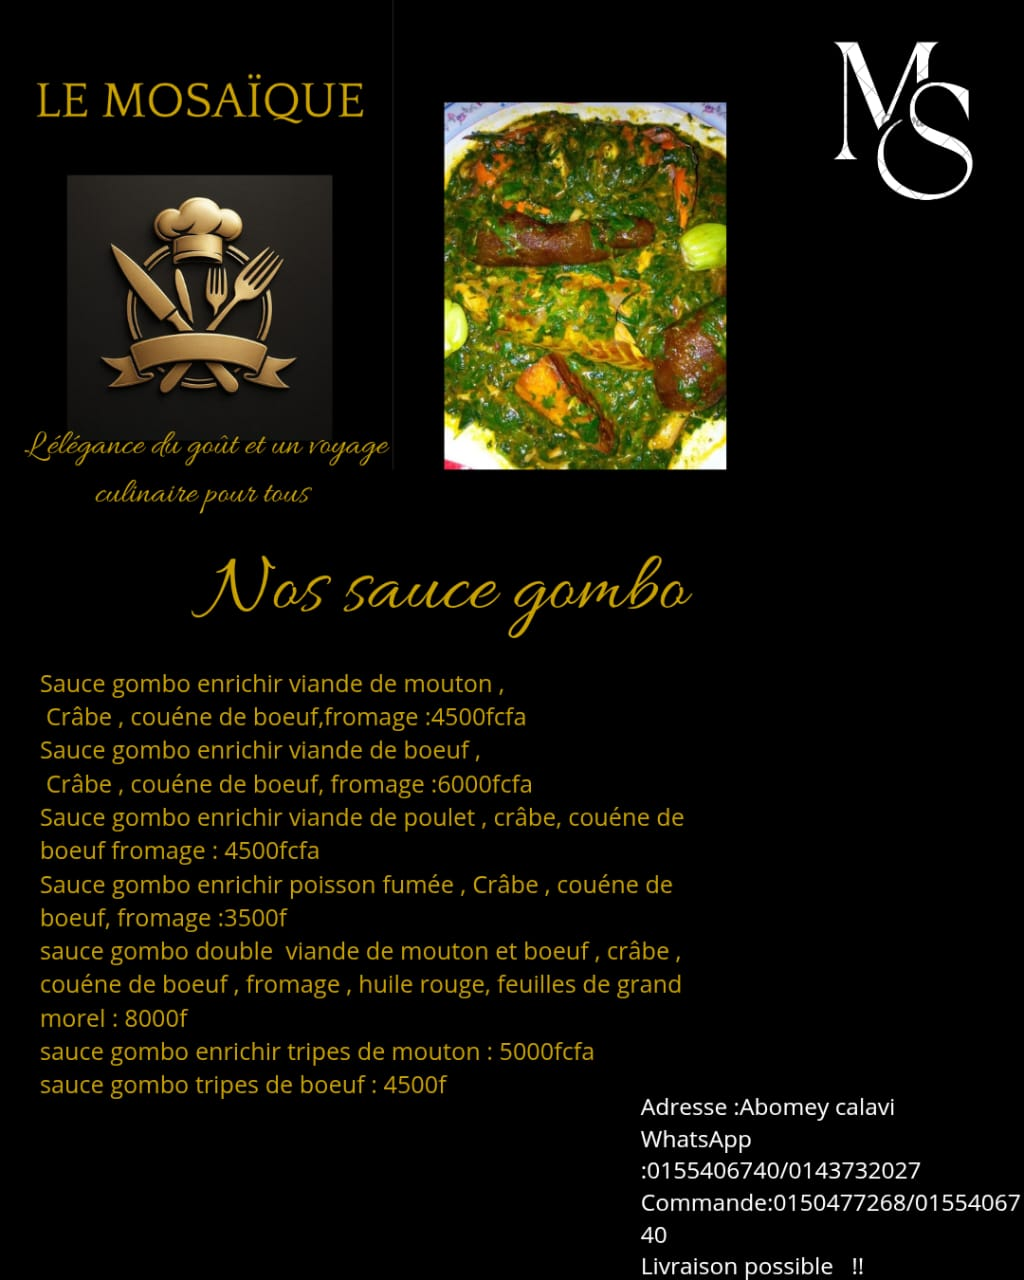
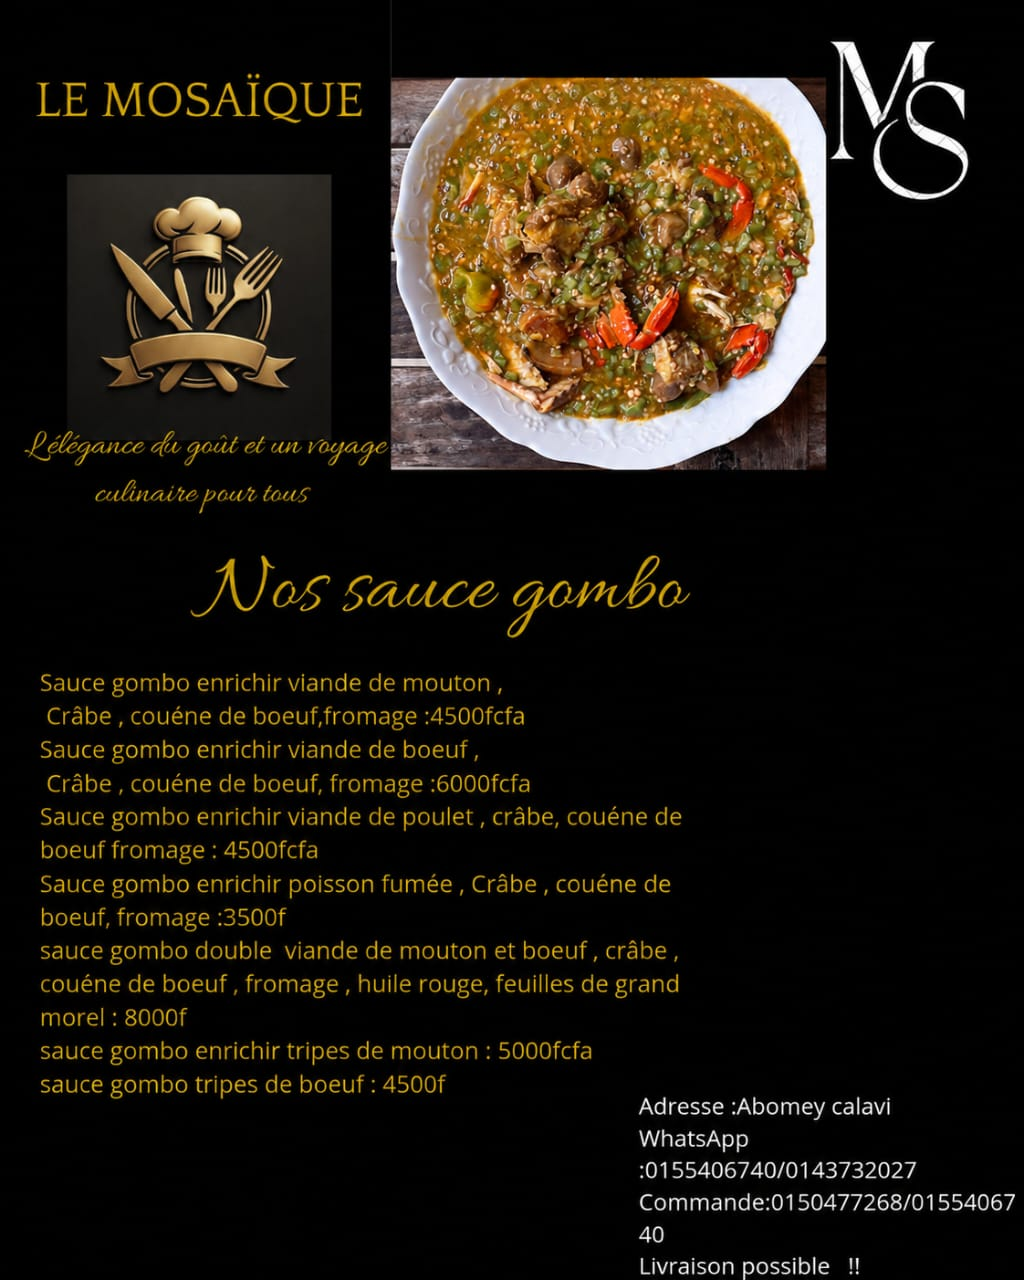
Ajouter la sauce crin-crin et actualiser le gombo

diff --git a/src/lib/demo-data.ts b/src/lib/demo-data.ts
@@ -18,6 +18,7 @@ export const CATEGORIES_DEMO: Categorie[] = [
   { id: 'cat-11', nom: 'Sauces gombo',      slug: 'sauces-gombo',      ordre: 11, created_at: '' },
   { id: 'cat-12', nom: 'Sauce arachide',    slug: 'sauce-arachide',    ordre: 12, created_at: '' },
   { id: 'cat-13', nom: 'Michoui mouton',    slug: 'michoui-mouton',    ordre: 13, created_at: '' },
+  { id: 'cat-14', nom: 'Sauce crin-crin',   slug: 'sauce-crin-crin',   ordre: 14, created_at: '' },
 ];
 
 const d = new Date().toISOString();
@@ -465,4 +466,13 @@ export const PLATS_DEMO: Plat[] = [
   { id: 'd-m05', categorie_id: 'cat-13', nom: 'Michoui de mouton et sauce triple de mouton', slug: 'michoui-mouton-sauce-triple', description: 'Michoui de mouton accompagné de sauce triple de mouton.', prix: 110000, disponible: true, est_vegetarien: false, est_epice: false, est_vedette: false, ordre: 5, images_urls: [], created_at: d, updated_at: d },
   { id: 'd-m06', categorie_id: 'cat-13', nom: 'Michoui de mouton, sauce gbôta et triple de mouton', slug: 'michoui-mouton-gbota-triple', description: 'Michoui de mouton accompagné de sauce gbôta et de sauce triple de mouton.', prix: 160000, disponible: true, est_vegetarien: false, est_epice: false, est_vedette: false, ordre: 6, images_urls: [], created_at: d, updated_at: d },
   { id: 'd-m07', categorie_id: 'cat-13', nom: 'Sauce triple de mouton', slug: 'sauce-triple-de-mouton', description: 'Sauce triple de mouton, proposée séparément.', prix: 30000, disponible: true, est_vegetarien: false, est_epice: false, est_vedette: false, ordre: 7, images_urls: [], created_at: d, updated_at: d },
+
+  // ── SAUCE CRIN-CRIN ─────────────────────────────────────────
+  { id: 'd-k01', categorie_id: 'cat-14', nom: 'Sauce crin-crin enrichie — viande de mouton', slug: 'crin-crin-mouton', description: 'Sauce crin-crin enrichie au mouton, crabe, couenne de bœuf et fromage.', prix: 4500, disponible: true, est_vegetarien: false, est_epice: false, est_vedette: false, ordre: 1, images_urls: [], created_at: d, updated_at: d },
+  { id: 'd-k02', categorie_id: 'cat-14', nom: 'Sauce crin-crin enrichie — viande de bœuf', slug: 'crin-crin-boeuf', description: 'Sauce crin-crin enrichie au bœuf, crabe, couenne de bœuf et fromage.', prix: 6000, disponible: true, est_vegetarien: false, est_epice: false, est_vedette: false, ordre: 2, images_urls: [], created_at: d, updated_at: d },
+  { id: 'd-k03', categorie_id: 'cat-14', nom: 'Sauce crin-crin enrichie — viande de poulet', slug: 'crin-crin-poulet', description: 'Sauce crin-crin enrichie au poulet, crabe, couenne de bœuf et fromage.', prix: 4500, disponible: true, est_vegetarien: false, est_epice: false, est_vedette: false, ordre: 3, images_urls: [], created_at: d, updated_at: d },
+  { id: 'd-k04', categorie_id: 'cat-14', nom: 'Sauce crin-crin enrichie — poisson fumé', slug: 'crin-crin-poisson-fume', description: 'Sauce crin-crin enrichie au poisson fumé, crabe, couenne de bœuf et fromage.', prix: 3500, disponible: true, est_vegetarien: false, est_epice: false, est_vedette: false, ordre: 4, images_urls: [], created_at: d, updated_at: d },
+  { id: 'd-k05', categorie_id: 'cat-14', nom: 'Sauce crin-crin double viande', slug: 'crin-crin-double-viande', description: 'Sauce crin-crin double viande avec crabe, couenne de bœuf, fromage, huile rouge et feuilles de grand morel.', prix: 8000, disponible: true, est_vegetarien: false, est_epice: false, est_vedette: false, ordre: 5, images_urls: [], created_at: d, updated_at: d },
+  { id: 'd-k06', categorie_id: 'cat-14', nom: 'Sauce crin-crin enrichie — tripes de mouton', slug: 'crin-crin-tripes-mouton', description: 'Sauce crin-crin enrichie aux tripes de mouton.', prix: 5000, disponible: true, est_vegetarien: false, est_epice: false, est_vedette: false, ordre: 6, images_urls: [], created_at: d, updated_at: d },
+  { id: 'd-k07', categorie_id: 'cat-14', nom: 'Sauce crin-crin — tripes de bœuf', slug: 'crin-crin-tripes-boeuf', description: 'Sauce crin-crin aux tripes de bœuf.', prix: 4500, disponible: true, est_vegetarien: false, est_epice: false, est_vedette: false, ordre: 7, images_urls: [], created_at: d, updated_at: d },
 ];
